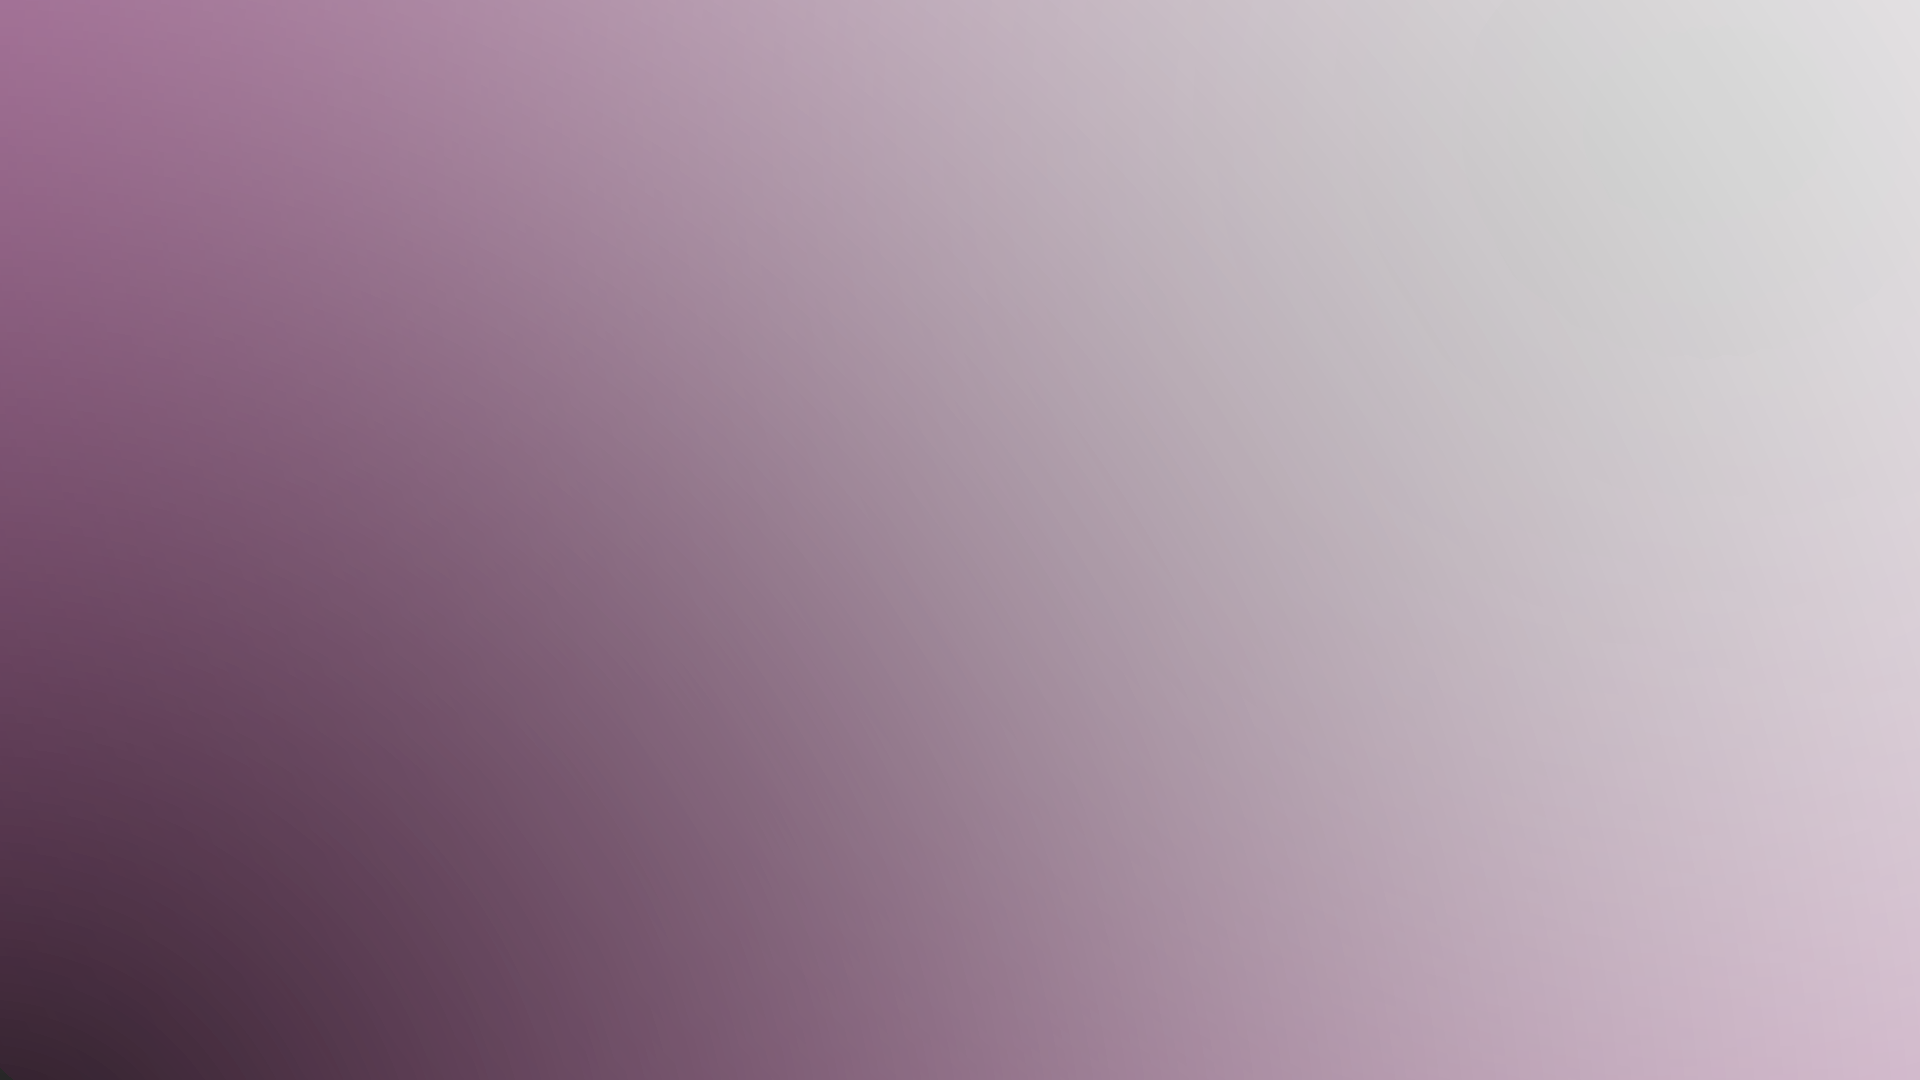
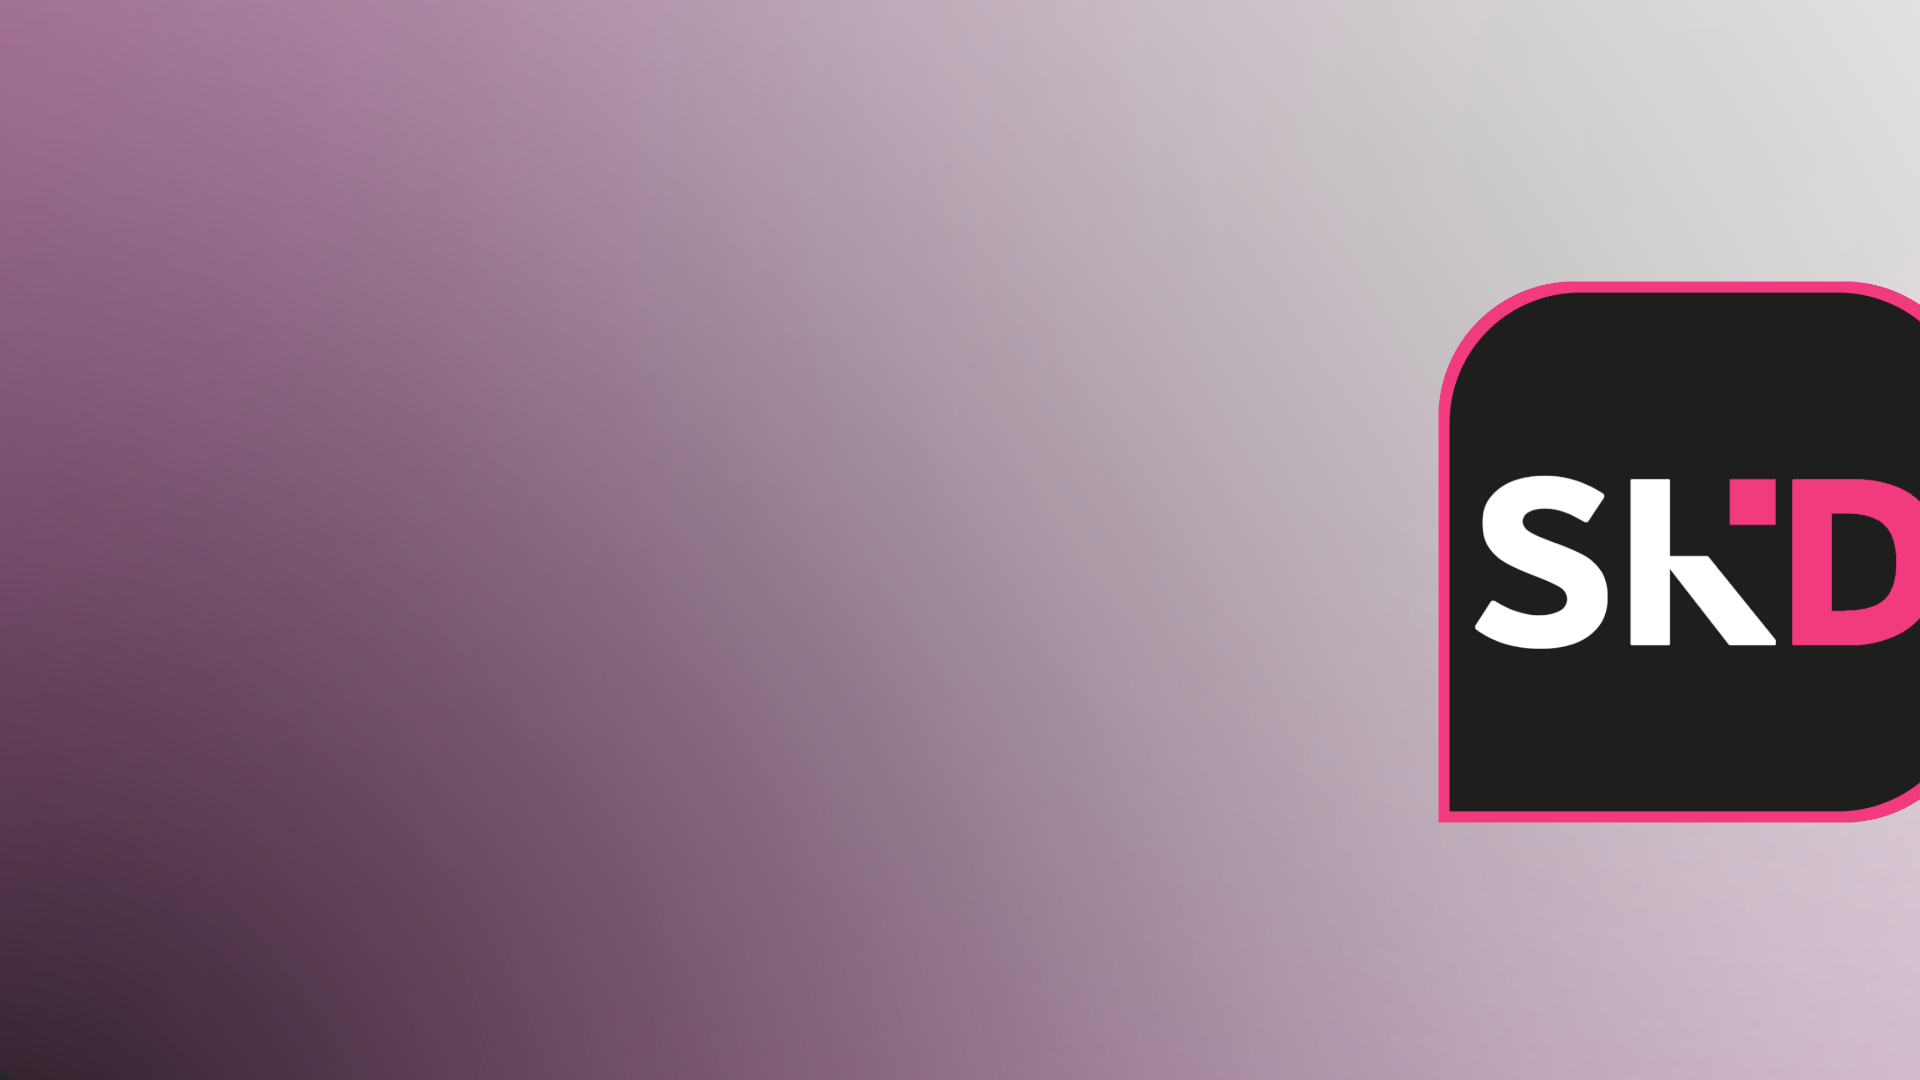
cafali.art

Changed region(s): [[0.75, 0.2444, 1.0, 0.7639]]

diff --git a/projects/skindealz.html b/projects/skindealz.html
@@ -12,14 +12,14 @@
       <a href="snapkey">SnapKey</a>
       <a href="pathscan">PathScan</a>
       <a href="cherrypad">CherryPad</a>
-      <a href="skindealz">SkinDealz</a>
+      <a style="color: #ff69b4;" href="skindealz">SkinDealz</a>
       <a href="restweak">ResTweak</a>
     </nav>
   </header>
 
   <section class="hero">
     <h2>SkinDealz</h2>
-    <p>SITE NOT READY YET</p>
+    <p>Automates purchases on the SkinPort LIVE Market</p>
     <a href="#features" class="btn">Learn More</a>
     <a href="#download" class="btn btn-yellow">Get SkinDealz</a>
   </section>
@@ -28,43 +28,45 @@
     <h2>SkinDealz features</h2>
     <div class="feature-grid">
       <div class="feature">
-        <h3>👀</h3>
-        <p>TBA</p>
+        <h3>🤖</h3>
+        <p>Automated Purchases</p>
       </div>
       <div class="feature">
-        <h3>👀</h3>
-        <p>TBA</p>   
+        <h3>🛒</h3>
+        <p>Grab Multiple Items at Once</p>   
       </div>
       <div class="feature">
-        <h3>👀</h3>
-        <p>TBA</p>    
+        <h3>⚙</h3>
+        <p>Adjust item parameters, timings, and delays to your liking</p>    
       </div>
       <div class="feature">
-        <h3>👀</h3>
-        <p>TBA</p>  
+        <h3>⌨</h3>
+        <p>Keyboard shortcuts to automate tasks on the website</p>  
       </div>
-            <div class="feature">
-        <h3>👀</h3>
-        <p>TBA</p>   
-       </div>
-            <div class="feature">
-        <h3>👀</h3>
-        <p>TBA</p>  
+      <div class="feature">
+        <h3>🔴</h3>
+        <p>Multiple LIVE market automation processes</p>   
+      </div>
+      <div class="feature">
+        <h3>🔍🚫</h3>
+        <p>Hide & filter items that don't meet your criteria</p>  
       </div>
     </div>
   </section>
   
   <section class="features" id="features">
     <h2>What is SkinDealz?</h2>
-    <P>TBA</P>    
+    <P>SkinDealz is a browser extension aimed at simplifying deal-hunting in various gaming markets, particularly on the LIVE market.<br>By holding the SHIFT key while adding items to your CART, SkinDealz automates the purchasing process, reducing the time to under 2900ms for the entire procedure.</P>    
     <div class="feature-grid">
   </section>
 
   <section class="cta" id="download">
     <h2>Download SkinDealz</h2>
     <p>Download the latest version of SkinDealz below!</p>
-    <a href="https://chromewebstore.google.com/detail/cherrypad-notepad-extensi/fhneekooapbagkckacdlemielahijgfd" class="btn">Get SkinDealz Now</a>
-    <a href="https://github.com/cafali/CherryPad" class="btn btn-yellow" target="_blank" rel="noopener">View on GitHub</a>
+    <a href="https://github.com/cafali/SkinDealz/releases" class="btn">Get SkinDealz Now</a>
+    <a href="https://github.com/cafali/SkinDealz" class="btn btn-yellow" target="_blank" rel="noopener">View on GitHub</a>
+    <p>
+    <p style="color: #ff697d;">NOTE: SkinDealz is a private extension</p>
   </section>
 
   <footer>

diff --git a/projects/cherrypad.html b/projects/cherrypad.html
@@ -11,7 +11,7 @@
     <nav>
       <a href="snapkey">SnapKey</a>
       <a href="pathscan">PathScan</a>
-      <a href="cherrypad">CherryPad</a>
+      <a style="color: #E0203E;" href="cherrypad">CherryPad</a>
       <a href="skindealz">SkinDealz</a>
       <a href="restweak">ResTweak</a>
     </nav>

diff --git a/projects/pathscan.html b/projects/pathscan.html
@@ -11,7 +11,7 @@
     <nav>
       <a href="snapkey">SnapKey</a>
       <a href="pathscan">PathScan</a>
-      <a href="cherrypad">CherryPad</a>
+      <a style="color: #f1c40f;" href="cherrypad">CherryPad</a>
       <a href="skindealz">SkinDealz</a>
       <a href="restweak">ResTweak</a>
     </nav>

diff --git a/projects/snapkey.html b/projects/snapkey.html
@@ -9,7 +9,7 @@
   <header>
      <h1>cafali.art | Project Browser</h1>
     <nav>
-      <a href="snapkey">SnapKey</a>
+      <a style="color: #2ecc40;" href="snapkey">SnapKey</a>
       <a href="pathscan">PathScan</a>
       <a href="cherrypad">CherryPad</a>
       <a href="skindealz">SkinDealz</a>

diff --git a/projects/restweak.html b/projects/restweak.html
@@ -13,7 +13,7 @@
       <a href="pathscan">PathScan</a>
       <a href="cherrypad">CherryPad</a>
       <a href="skindealz">SkinDealz</a>
-      <a href="restweak">ResTweak</a>
+      <a style="color: #38bdf8;" href="restweak">ResTweak</a>
     </nav>
   </header>
 
